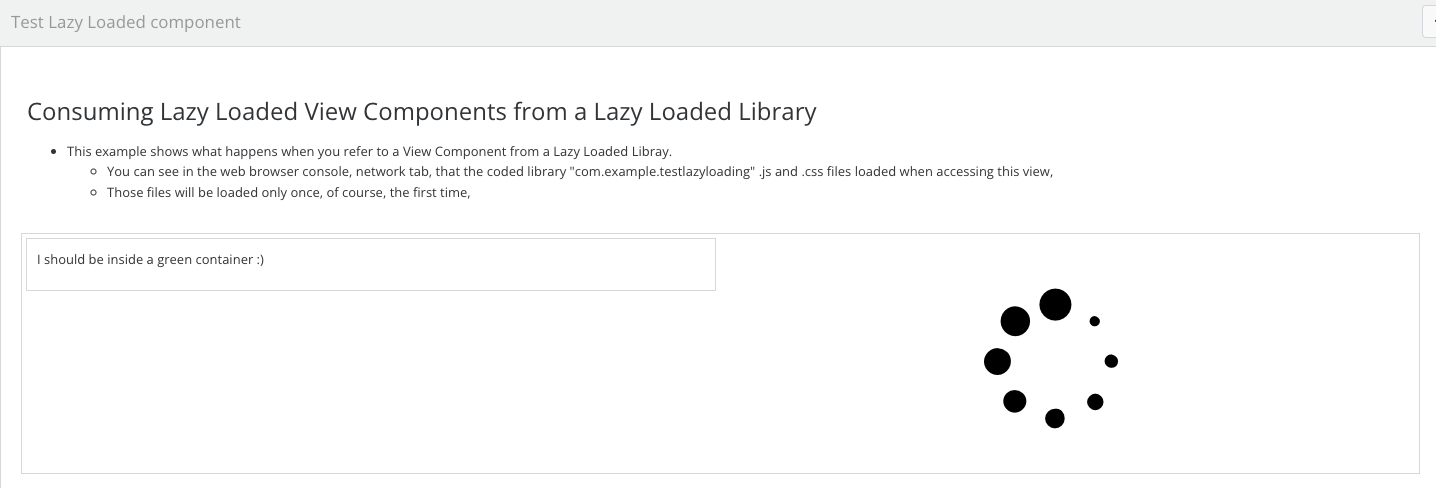
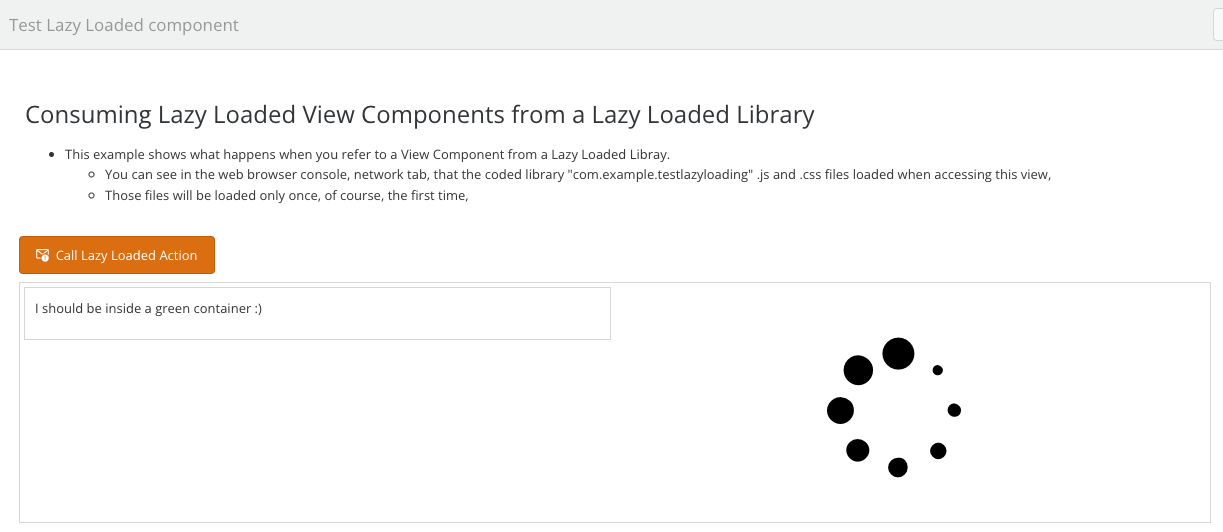
Added more details about the necessary annotation (thanks Alex :)), added an Action to show how decorators work. Updated the sample codeless application and screenshots.

diff --git a/22.1/testlazyloading/bundle/src/main/webapp/libs/com-example-testlazyloading/src/lib/actions/lazy-loaded-action/lazy-loaded-action-action-design-model.class.ts b/22.1/testlazyloading/bundle/src/main/webapp/libs/com-example-testlazyloading/src/lib/actions/lazy-loaded-action/lazy-loaded-action-action-design-model.class.ts
@@ -1,0 +1,54 @@
+import { RxViewDesignerActionModel } from '@helix/platform/view/designer';
+import {
+  IViewActionDesignPropertyEditorConfig,
+  IViewActionDesignSandbox,
+  IViewActionOutputDataDictionary,
+  ViewActionDesignEditableProperties
+} from '@helix/platform/view/api';
+import { Injector } from '@angular/core';
+import { ExpressionFormControlComponent, IExpressionFormControlOptions } from '@helix/platform/shared/components';
+import { ILazyLoadedActionActionDesignProperties } from './lazy-loaded-action-action.interface';
+
+export class LazyLoadedActionActionDesignModel extends RxViewDesignerActionModel {
+  // This method will be called automatically and will set the default values
+  // of the input parameters or their current values.
+  static getInitialProperties(initialProperties: ViewActionDesignEditableProperties<ILazyLoadedActionActionDesignProperties>) {
+    return {
+      message: '',
+      ...initialProperties
+    };
+  }
+
+  // The constructor is setting the action properties (input parameters).
+  constructor(protected injector: Injector,
+              readonly sandbox: IViewActionDesignSandbox<ILazyLoadedActionActionDesignProperties>) {
+    super(injector, sandbox);
+
+    // Setting the input parameters properties.
+    this.sandbox.setActionPropertyEditorConfig(this.getActionEditorConfig());
+
+    // Creating the data dictionary that contains the output parameter.
+    this.sandbox.setActionOutputDataDictionary(this.getActionOutputDataDictionary());
+  }
+
+  // Defining the input parameters properties.
+  private getActionEditorConfig() : IViewActionDesignPropertyEditorConfig {
+    return [
+      {
+        name: 'message',
+        component: ExpressionFormControlComponent,
+        options: {
+          label: 'Message',
+          isRequired: true,
+          dataDictionary$: this.expressionConfigurator.getDataDictionary(),
+          operators: this.expressionConfigurator.getOperators()
+        } as IExpressionFormControlOptions
+      }
+    ];
+  }
+
+  // Creating the Data Dictionary to define the output parameters.
+  private getActionOutputDataDictionary(): IViewActionOutputDataDictionary {
+    return [];
+  }
+}

diff --git a/22.1/testlazyloading/bundle/src/main/webapp/libs/com-example-testlazyloading/src/lib/actions/lazy-loaded-action/lazy-loaded-action-action.module.ts b/22.1/testlazyloading/bundle/src/main/webapp/libs/com-example-testlazyloading/src/lib/actions/lazy-loaded-action/lazy-loaded-action-action.module.ts
@@ -1,0 +1,38 @@
+import { NgModule } from '@angular/core';
+import { RxViewActionRegistryService } from '@helix/platform/view/api';
+import { LazyLoadedActionActionService } from './lazy-loaded-action-action.service';
+import { LazyLoadedActionActionDesignManagerService } from './lazy-loaded-action-action-design-manager.service';
+import { LazyLoadedActionActionDesignModel } from './lazy-loaded-action-action-design-model.class';
+
+@NgModule({
+  providers: [LazyLoadedActionActionService, LazyLoadedActionActionDesignManagerService]
+})
+export class LazyLoadedActionActionModule {
+  constructor(
+    private rxViewActionRegistryService: RxViewActionRegistryService,
+    private lazyLoadedActionActionService: LazyLoadedActionActionService,
+    private lazyLoadedActionActionDesignManagerService: LazyLoadedActionActionDesignManagerService
+  ) {
+    this.rxViewActionRegistryService.register({
+      name: 'comExampleTestlazyloadingLazyLoadedAction',
+      label: 'Lazy Loaded Action',
+      bundleId: 'com.example.testlazyloading',
+      // Service that will be executed at runtime.
+      service: this.lazyLoadedActionActionService,
+      // The design manager will validate the input parameters at design time.
+      designManager: this.lazyLoadedActionActionDesignManagerService,
+      // The output parameters are not defined in this file but
+      // in the design model via the data dictionary.
+      designModel: LazyLoadedActionActionDesignModel,
+      // The input parameters will be defined in more details in the design-model file.
+      parameters: [
+        {
+          name: 'message',
+          label: 'Message',
+          isRequired: true,
+          enableExpressionEvaluation: true
+        }
+      ]
+    })
+  }
+}

diff --git a/22.1/testlazyloading/bundle/src/main/webapp/libs/com-example-testlazyloading/src/lib/actions/lazy-loaded-action/lazy-loaded-action-action.service.ts b/22.1/testlazyloading/bundle/src/main/webapp/libs/com-example-testlazyloading/src/lib/actions/lazy-loaded-action/lazy-loaded-action-action.service.ts
@@ -1,0 +1,40 @@
+import { Injectable } from '@angular/core';
+import { IViewActionService } from '@helix/platform/view/api';
+import { EMPTY, from, Observable, throwError } from 'rxjs';
+import { RX_MODAL, RxModalService } from '@helix/platform/ui-kit';
+import { switchMap } from 'rxjs/operators';
+import { RxViewAction } from '@helix/platform/view/api';
+import { ILazyLoadedActionActionProperties } from './lazy-loaded-action-action.interface';
+
+// any type is necessary here due to the use of AdaptModalService.
+@Injectable()
+@RxViewAction({
+  name: 'comExampleTestlazyloadingLazyLoadedAction'
+})
+export class LazyLoadedActionActionService implements IViewActionService<ILazyLoadedActionActionProperties, any> {
+  constructor(private rxModalService: RxModalService) {}
+
+  // Method automatically executed at runtime.
+  // inputParameters will contain the different Input parameter values.
+  // This method must return an Observable, here of tye "any" due to the use
+  // of rxModalService.confirm.
+  execute(inputParameters: ILazyLoadedActionActionProperties): Observable<any> {
+    // rxModalService.confirm is a promise, returning a boolean.
+    return from(this.rxModalService.confirm({
+      title: 'default',
+      modalStyle: RX_MODAL.modalStyles.warning,
+      message: inputParameters.message
+    })).pipe(
+      // We need to trap the result of the confirmation window and return an EMPTY observable in case
+      // of confirmation or throw an error if not.
+      // Throwing an error will cancel the next actions.
+      switchMap((result: boolean) => {
+        if (result) {
+          return EMPTY;
+        } else {
+          return throwError(null);
+        }
+      })
+    );
+  }
+}

diff --git a/22.1/testlazyloading/bundle/src/main/webapp/libs/com-example-testlazyloading/src/lib/actions/lazy-loaded-action/lazy-loaded-action-action-design-manager.service.ts b/22.1/testlazyloading/bundle/src/main/webapp/libs/com-example-testlazyloading/src/lib/actions/lazy-loaded-action/lazy-loaded-action-action-design-manager.service.ts
@@ -1,0 +1,23 @@
+import { IViewActionDesignManager } from '@helix/platform/view/api';
+import { IViewComponentDesignValidationIssue } from '@helix/platform/view/designer';
+import { Observable, of } from 'rxjs';
+import { IPlainObject } from '@helix/platform/shared/api';
+import { Injectable } from '@angular/core';
+import { ILazyLoadedActionActionDesignProperties } from './lazy-loaded-action-action.interface';
+
+@Injectable()
+export class LazyLoadedActionActionDesignManagerService implements IViewActionDesignManager<ILazyLoadedActionActionDesignProperties> {
+
+  // This method will be called automatically to validate the input parameter values.
+  validate(actionProperties: ILazyLoadedActionActionDesignProperties, propertyName: string): Observable<IPlainObject[]> {
+    return of(this.validateInputParameters(actionProperties, propertyName));
+  }
+
+  // Custom validation : Validating each input parameter.
+  private validateInputParameters(
+    actionsParams: ILazyLoadedActionActionDesignProperties,
+    issuePropertyName: string
+  ): IViewComponentDesignValidationIssue[] {
+  return [];
+  }
+}

diff --git a/22.1/testlazyloading/bundle/src/main/webapp/libs/com-example-testlazyloading/src/lib/view-components/label-lazy-loaded/runtime/label-lazy-loaded.component.ts b/22.1/testlazyloading/bundle/src/main/webapp/libs/com-example-testlazyloading/src/lib/view-components/label-lazy-loaded/runtime/label-lazy-loaded.component.ts
@@ -1,5 +1,5 @@
 import { Component, OnInit } from '@angular/core';
-import { Observable, throwError } from 'rxjs';
+import { Observable } from 'rxjs';
 import { BaseViewComponent, IViewComponent } from '@helix/platform/view/runtime';
 import { RxViewComponent } from '@helix/platform/view/api';
 import { ILabelLazyLoadedParameters } from '../design/label-lazy-loaded.interface';
@@ -11,7 +11,7 @@ import { distinctUntilChanged, pluck, takeUntil } from 'rxjs/operators';
   templateUrl: './label-lazy-loaded.component.html'
 })
 @RxViewComponent({
-  name: 'com-example-testlazyloading-label-lazy-loaded',
+  name: 'com-example-testlazyloading-label-lazy-loaded'
 })
 export class LabelLazyLoadedComponent extends BaseViewComponent implements OnInit,IViewComponent {
   // Contains the view component instance id.

diff --git a/22.1/testlazyloading/bundle/src/main/webapp/libs/com-example-testlazyloading/src/lib/com-example-testlazyloading.module.ts b/22.1/testlazyloading/bundle/src/main/webapp/libs/com-example-testlazyloading/src/lib/com-example-testlazyloading.module.ts
@@ -3,9 +3,16 @@ import { CommonModule } from '@angular/common';
 import { RxLocalizationService } from '@helix/platform/shared/api';
 import * as defaultApplicationStrings from './i18n/localized-strings.json';
 import { LabelLazyLoadedRegistrationModule } from './view-components/label-lazy-loaded/label-lazy-loaded-registration.module';
+import { LazyLoadedActionActionModule } from './actions/lazy-loaded-action/lazy-loaded-action-action.module';
 
 @NgModule({
-  imports: [CommonModule, LabelLazyLoadedRegistrationModule]
+  imports: [
+    CommonModule,
+    // View Component.
+    LabelLazyLoadedRegistrationModule,
+    // Action.
+    LazyLoadedActionActionModule
+  ]
 })
 export class ComExampleTestlazyloadingModule {
   constructor(private rxLocalizationService: RxLocalizationService) {

diff --git a/22.1/testlazyloading/bundle/src/main/webapp/libs/com-example-testlazyloading/src/lib/actions/lazy-loaded-action/lazy-loaded-action-action.interface.ts b/22.1/testlazyloading/bundle/src/main/webapp/libs/com-example-testlazyloading/src/lib/actions/lazy-loaded-action/lazy-loaded-action-action.interface.ts
@@ -1,0 +1,11 @@
+import { IViewActionDesignProperties } from '@helix/platform/view/api';
+
+// This Interface will be used during runtime.
+export interface ILazyLoadedActionActionProperties {
+  message: string;
+}
+
+// This Interface will be used during design time.
+export interface ILazyLoadedActionActionDesignProperties extends IViewActionDesignProperties{
+  message: string;
+}

diff --git a/22.1/testlazyloading/bundle/src/main/webapp/libs/com-example-testlazyloading/src/lib/actions/lazy-loaded-action/index.ts b/22.1/testlazyloading/bundle/src/main/webapp/libs/com-example-testlazyloading/src/lib/actions/lazy-loaded-action/index.ts
@@ -1,0 +1,3 @@
+export * from './lazy-loaded-action-action.module';
+export * from './lazy-loaded-action-action.service';
+export * from './lazy-loaded-action-action.interface';

diff --git a/22.1/testlazyloading/README.MD b/22.1/testlazyloading/README.MD
@@ -1,6 +1,7 @@
 # Testing View Component / Bundle Lazy Loading
 History:
 * Version:
+  * 0.2, 2023/03/01, Added more details about the necessary annotation (thanks Alex :)), added an Action to show how decorators work. Updated the sample codeless application and screenshots.
   * 0.1, 2023/02/28, Initial comments.
 * Author: Laurent Matheo.
 
@@ -119,7 +120,9 @@ This file is automatically generated and will be part of the coded bundle instal
   "viewComponents": [
     "com-example-testlazyloading-label-lazy-loaded"
   ],
-  "viewActions": [],
+  "viewActions": [
+    "comExampleTestlazyloadingLazyLoadedAction"
+  ],
   "applicationInitializers": [],
   "options": {
     "loadCss": "lazy",
@@ -127,6 +130,39 @@ This file is automatically generated and will be part of the coded bundle instal
   }
 }
 ```
+
+# Note on necessary annotations ```@RxViewComponent``` and ```@RxViewAction```:
+In order for the view components and actions to be detected and added in the manifest file described above, they need to be "described".  
+We are using for this Angular Decorators, ```@RxViewComponent``` for a View Component and ```@RxViewAction``` for an Action.  
+As we can see in our example for our [demo View Component](../bundle/src/main/webapp/libs/com-example-testlazyloading/src/lib/view-components/label-lazy-loaded/runtime/label-lazy-loaded.component.ts), the decorator must be set in the View Component "runtime" Angular Component and its ```name``` property must match the Angular Component ```selector``` property:    
+```typescript
+@Component({
+  selector: 'com-example-testlazyloading-label-lazy-loaded',
+  styleUrls: ['./label-lazy-loaded.scss'],
+  templateUrl: './label-lazy-loaded.component.html'
+})
+@RxViewComponent({
+  name: 'com-example-testlazyloading-label-lazy-loaded'
+})
+```
+For an Action, the annotation ```@RxViewAction``` is defined in the [Action service](../bundle/src/main/webapp/libs/com-example-testlazyloading/src/lib/actions/lazy-loaded-action/lazy-loaded-action-action.service.ts) and its ```name``` property:  
+```typescript
+@Injectable()
+@RxViewAction({
+  name: 'comExampleTestlazyloadingLazyLoadedAction',
+})
+export class LazyLoadedActionActionService implements IViewActionService<ILazyLoadedActionActionProperties, any> {
+```
+is the same that the ```name``` property defined in the [Action module](../bundle/src/main/webapp/libs/com-example-testlazyloading/src/lib/actions/lazy-loaded-action/lazy-loaded-action-action.module.ts):
+```typescript
+    this.rxViewActionRegistryService.register({
+      name: 'comExampleTestlazyloadingLazyLoadedAction',
+```
+
+> :memo:  
+> You do not need to worry about applying the decorators, they are automatically set with the right values when the View Component or Action is generated using our SDK schematics.  
+> However it is interesting to see how we generate the manifest or if you created the coded bundle before the 22.x SDK. You might have to add the decorators manually, IF you want the coded bundle to be lazy loaded.
+
 
 
 # Note on Design Time (Innovation Studio View Designer)
